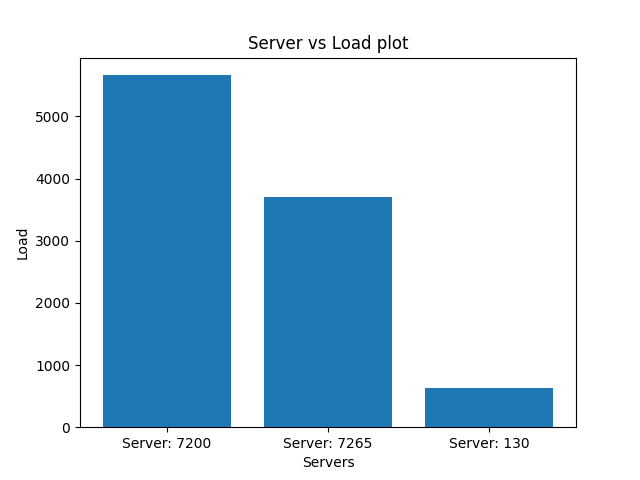
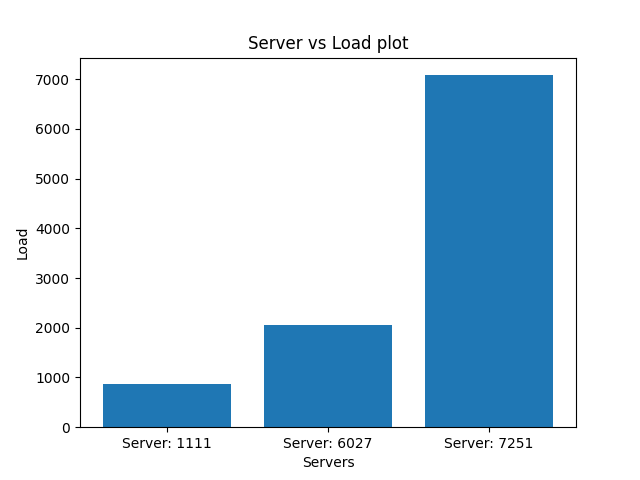
README A4 added

diff --git a/A1/lb/conhash/conhash.go b/A1/lb/conhash/conhash.go
@@ -1,8 +1,24 @@
 package conhash
 
 import (
+	// "crypto/sha256" 
+	// "encoding/binary"
 	"fmt"
 )
+
+// func last9BitsSHA256(number uint64) int {
+// 	// Convert the number to bytes
+// 	dataBytes := make([]byte, 8)
+// 	binary.BigEndian.PutUint64(dataBytes, number)
+
+// 	// Calculate the SHA-256 hash
+// 	hash := sha256.Sum256(dataBytes)
+
+// 	// Extract the last 9 bits from the hash
+// 	last9Bits := int(binary.BigEndian.Uint16(hash[len(hash)-2:]) & 0b111111111)
+
+// 	return last9Bits
+// }
 
 
 // Node represents a node in the ConHash structure.
@@ -34,13 +50,13 @@ func NewConHash(m, k int) *ConHash {
 }
 
 func (c *ConHash) getServHash(i, j int) int {
-	val := 1*i*i + 1*j*j + 2*j + 25
+	val := i*i + j*j + 2*j + 25
 	val %= int(c.Size)
 	return int(val)
 }
 
 func (c *ConHash) getCliHash(i int) int {
-	val := 1*i*i + 1*2*i + 17
+	val := i*i + 2*i + 17
 	val %= int(c.Size)
 	return int(val)
 }

diff --git a/A1/README.md b/A1/README.md
@@ -424,11 +424,10 @@ This document presents an analysis of the load balancer's performance based on t
 
 **Observations:**
 
-- ......
-- ..........
+- We can see that the distribution of load is very much skewed.
 
 **Conclusion:**
-- ..............
+- This is due to the inability of the hash function to produce random numbers, i.e. it is not a pseudo random number generator (PRNG).
 
 ---
 
@@ -450,13 +449,10 @@ This document presents an analysis of the load balancer's performance based on t
 - Time taken: 25.5 seconds (average)
 - Memory usage: 2.5 GB
 
-**Observations:**
+**Observations and Conclusions:**
 
-- ..............
-- ..................
-
-**Conclusion:**
-- ..............
+- We can see that the average load follows the function 10000/N. 
+- However, in such case standard deviation tells a lot about the distribution. In this case for N = 5 we get the minimum value which tells that for N = 5, the distribution is almost uniform. 
 
 ---
 
@@ -693,3 +689,44 @@ Content-Length: 91
 
 {"message":"ERROR: '/other' endpoint does not exist in server replicas","status":"failure"}
 ```
+
+## Modifying the Hash functions $H(i) $ and $\phi(i, j)$
+### Modified Hash function 1:-
+$$
+H(i) = i^2 + 2i + 17
+$$
+
+$$
+\phi(i, j) = i^2 + j^2 + 2j + 25
+$$
+![bar_plot](./images/Hash_F21.png)
+<br />
+
+![line_plot](./images/Hash_F22.png)
+### Modified Hash function 1:-
+$$
+H(i) = i^2 + 7i + 31
+$$
+
+$$
+\phi(i, j) = i^2 + j^2 + (i\&j) + ((i>>4) \oplus (j >> 3))
+$$
+
+![bar_plot](./images/Hash_F31.png)
+<br />
+
+![line_plot](./images/Hash_F32.png)
+
+### Modified Hash function 1:-
+$$
+H(i) = sha256sum(i)(mod 512)
+$$
+
+$$
+\phi(i, j) = sha256sum(i|j)(mod 512)
+$$
+
+![bar_plot](./images/Hash_F41.png)
+<br />
+
+![line_plot](./images/Hash_42.png)
